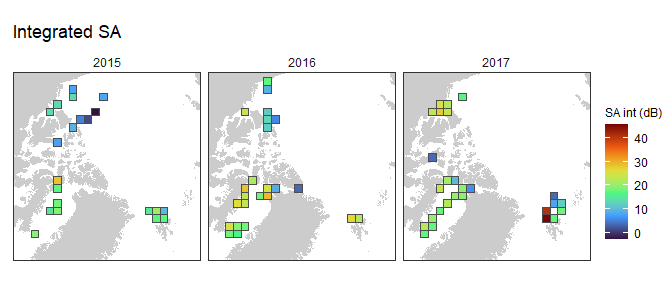
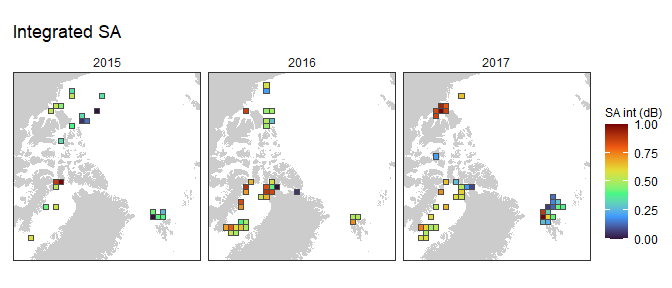
Work on some preliminary data analyses

diff --git a/PanArctic_DSL_statistics.md b/PanArctic_DSL_statistics.md
@@ -1,7 +1,7 @@
 PanArctic DSL - Statistics
 ================
 [Pierre Priou](mailto:pierre.priou@mi.mun.ca)
-2022/04/22 at 14:22
+2022/04/26 at 18:35
 
 # Package loading
 
@@ -10,6 +10,7 @@ PanArctic DSL - Statistics
 library(tidyverse)    # Tidy code
 library(cowplot)      # Plots on a grid
 library(raster)       # Data gridding
+library(sf)           # Spatial data
 library(rgdal)        # Read shapefiles
 library(ggpubr)       # Deal with stats
 library(ggfortify)    # Plotting glm
@@ -45,7 +46,7 @@ WGS84 or the EASE-Grid 2.0 North.
 
 ``` r
 # Map projections
-cell_res <- 150 # Cell resolution in km
+cell_res <- 100 # Cell resolution in km
 arctic_laea <- raster(extent(-2700, 2700, -2700, 2700), crs = "EPSG:6931") # Seaice projection
 projection(arctic_laea) <- gsub("units=m", "units=km", projection(arctic_laea)) # Convert proj unit from m to km
 res(arctic_laea) <- c(cell_res, cell_res) # Define the 100 km cell resolution
@@ -67,20 +68,31 @@ coast_10m_laea <- readOGR("data/bathy/ne_10m_land.shp", verbose = F) %>% # Coast
   fortify() %>% # Convert to a dataframe for ggplot
   rename(xc = long, yc = lat)
 
+# IHO regions
+# IHO_latlon <- readOGR("data/arctic_regions/World_Seas_IHO_v3.shp", verbose = F) %>% # Coastline in latlon
+#   spTransform(CRSobj = crs(arctic_latlon)) %>% # Make sure that the shapefile is in the right projection
+#   crop(extent(-180, 180, 0, 90)) %>% # Crop shapefile
+#   fortify() %>% # Convert to dataframe for ggplot
+#   rename(xc = long, yc = lat)
+# IHO_laea <- readOGR("data/arctic_regions/World_Seas_IHO_v3.shp", verbose = F) %>% # Coastline in latlon
+#   spTransform(CRSobj = crs(arctic_latlon)) %>% # Make sure that the shapefile is in the right projection
+#   crop(extent(-180, 180, 0, 90)) %>% # Crop shapefile
+#   spTransform(CRSobj = crs(arctic_laea)) %>% # Project shapefile in laea
+#   fortify() %>% # Convert to dataframe for ggplot
+#   rename(xc = long, yc = lat)
+
 # Gridded acoustic, CTD, and sea ice data
 load("data/acoustics/SA_grids.RData") # Acoustic data
 # load("data/CTD/CTD_grids.RData") # CTD data
 load("data/remote_sensing/physics_grids.RData") # Modelled physics data 
 load("data/remote_sensing/seaice_grids.RData") # Remote sensing sea ice data
-
-rm(list = ls(pattern = "latlon")) # Remove EPSG:4326 files
 ```
 
-# EPSG:6931 - EASE-Grid 2.0 North
+# Data preparation
 
-## Data preparation
-
-First I combine data using the EASE-Grid 2.0 North (EPSG:6931).
+I combine data using the EASE-Grid 2.0 North (EPSG:6931) and normalize
+the covariates. Calculation of the anomalies are also computed based on
+the IHO areas.
 
 ``` r
 SA_laea <- SA_grid_laea %>%  # Tidy anomaly dataset for joining
@@ -89,9 +101,15 @@ phy_laea <- phy_grid_laea %>% # Tidy remote sensing dataset for joining
   dplyr::select(-lat, -lon)
 
 stat_laea <- left_join(SA_laea, phy_laea, by = c("year", "area", "xc", "yc", "cell_res")) %>% # Join acoustic and seaice
-  filter(depth == 380) %>% # Select data at 222 m depth
-  mutate(SA_int = 10 * log10(NASC_int))
+  # filter(depth == 380) %>% # Select data at 380 m depth
+  mutate(SA_int = 10 * log10(NASC_int)) %>%
+  group_by(area) %>%
+  mutate(SA_int_n = (SA_int - min(SA_int)) / (max(SA_int - min(SA_int))),
+         velocity_n = (velocity - min(velocity)) / (max(velocity - min(velocity)))) %>%
+  ungroup()
 ```
+
+# Data exploration
 
 Maps of all variables.
 
@@ -99,7 +117,7 @@ Maps of all variables.
 stat_laea %>% # Backscatter
   ggplot(aes(x = xc,  y = yc)) +
   geom_polygon(data = coast_10m_laea, aes(x = xc, y = yc, group = group), fill = "grey80") +
-  geom_tile(aes(fill = SA_int), color = "grey30") +
+  geom_tile(aes(fill = SA_int_n), color = "grey30") +
   scale_fill_viridis_c("SA int (dB)", option = "turbo", na.value = "red") +
   facet_wrap(~ year, ncol = 3) +
   ggtitle("Integrated SA") +
@@ -130,7 +148,7 @@ stat_laea %>% # Temperature
   geom_tile(aes(fill = thetao), color = "grey30") +
   scale_fill_cmocean("Temp (dC)", name = "thermal", na.value = "red") +
   facet_wrap(~ year, ncol = 3) +
-  ggtitle("Temperature at 222 m depth") +
+  ggtitle("Temperature at 380 m depth") +
   coord_fixed(xlim = c(-2600, 1100), ylim = c(-1800, 1900), expand = F) + 
   theme(axis.text = element_blank(), axis.ticks = element_blank(), axis.title = element_blank())
 ```
@@ -144,7 +162,7 @@ stat_laea %>% # Salinity
   geom_tile(aes(fill = so), color = "grey30") +
   scale_fill_cmocean("Sal (psu)", name = "haline", na.value = "red") +
   facet_wrap(~ year, ncol = 3) +
-  ggtitle("Salinity at 222 m depth") +
+  ggtitle("Salinity at 380 m depth") +
   coord_fixed(xlim = c(-2600, 1100), ylim = c(-1800, 1900), expand = F) + 
   theme(axis.text = element_blank(), axis.ticks = element_blank(), axis.title = element_blank())
 ```
@@ -164,6 +182,20 @@ stat_laea %>% # Ice concentration
 ```
 
 ![](PanArctic_DSL_statistics_files/figure-gfm/map-velocity-1.png)<!-- -->
+
+``` r
+stat_laea %>% # Ice concentration
+  ggplot(aes(x = xc,  y = yc)) +
+  geom_polygon(data = coast_10m_laea, aes(x = xc, y = yc, group = group), fill = "grey80") +
+  geom_tile(aes(fill = velocity_n), color = "grey30") +
+  scale_fill_cmocean("Normalized velo", name = "speed", na.value = "red") +
+  facet_wrap(~ year, ncol = 3) +
+  ggtitle("Current velocity at 380 m depth") +
+  coord_fixed(xlim = c(-2600, 1100), ylim = c(-1800, 1900), expand = F) + 
+  theme(axis.text = element_blank(), axis.ticks = element_blank(), axis.title = element_blank())
+```
+
+![](PanArctic_DSL_statistics_files/figure-gfm/map-velocity-normalized-1.png)<!-- -->
 
 ``` r
 stat_laea %>% # Mixed layer depth
@@ -207,23 +239,141 @@ stat_laea %>% # Ice concentration
 
 ![](PanArctic_DSL_statistics_files/figure-gfm/map-siconc-1.png)<!-- -->
 
-## Data exploration
-
-First I check the general correlation for the entire data set and then I
-check whether there are correlations within each cell.
+Check the general correlation for the entire data set.
 
 ``` r
 corr <- stat_laea %>% # Compute Spearman correlation matrix
-  dplyr::select(NASC_int, SA_int, NASC_anomaly, thetao, so, velocity, mlotst, siconc, sithick) %>%
+  dplyr::select(SA_int_n, NASC_anomaly, thetao, temp_anomaly, velocity, velocity_anomaly, siconc) %>%
   cor(., method = "spearman") %>%
   round(., 2)
 corr_pvalues <- stat_laea %>% # Compute Spearman correlation matrix p-values
-  dplyr::select(NASC_int, SA_int, NASC_anomaly, thetao, so, velocity, mlotst, siconc, sithick) %>%
+  dplyr::select(SA_int_n, NASC_anomaly, thetao, temp_anomaly, velocity, velocity_anomaly, siconc) %>%
   cor_pmat(., method = "spearman") 
 ```
+
+    ## Warning in cor.test.default(mat[, i], mat[, j], ...): Cannot compute exact p-
+    ## value with ties
+
+    ## Warning in cor.test.default(mat[, i], mat[, j], ...): Cannot compute exact p-
+    ## value with ties
+
+    ## Warning in cor.test.default(mat[, i], mat[, j], ...): Cannot compute exact p-
+    ## value with ties
+
+    ## Warning in cor.test.default(mat[, i], mat[, j], ...): Cannot compute exact p-
+    ## value with ties
+
+    ## Warning in cor.test.default(mat[, i], mat[, j], ...): Cannot compute exact p-
+    ## value with ties
+
+    ## Warning in cor.test.default(mat[, i], mat[, j], ...): Cannot compute exact p-
+    ## value with ties
+
+    ## Warning in cor.test.default(mat[, i], mat[, j], ...): Cannot compute exact p-
+    ## value with ties
+
+    ## Warning in cor.test.default(mat[, i], mat[, j], ...): Cannot compute exact p-
+    ## value with ties
+
+    ## Warning in cor.test.default(mat[, i], mat[, j], ...): Cannot compute exact p-
+    ## value with ties
+
+    ## Warning in cor.test.default(mat[, i], mat[, j], ...): Cannot compute exact p-
+    ## value with ties
+
+    ## Warning in cor.test.default(mat[, i], mat[, j], ...): Cannot compute exact p-
+    ## value with ties
+
+    ## Warning in cor.test.default(mat[, i], mat[, j], ...): Cannot compute exact p-
+    ## value with ties
+
+    ## Warning in cor.test.default(mat[, i], mat[, j], ...): Cannot compute exact p-
+    ## value with ties
+
+    ## Warning in cor.test.default(mat[, i], mat[, j], ...): Cannot compute exact p-
+    ## value with ties
+
+    ## Warning in cor.test.default(mat[, i], mat[, j], ...): Cannot compute exact p-
+    ## value with ties
 
 ``` r
 ggcorrplot(corr, type = "lower", p.mat = corr_pvalues)
 ```
 
 ![](PanArctic_DSL_statistics_files/figure-gfm/corr-plot-1.png)<!-- -->
+
+S<sub>A</sub> int is not correlated with temperature and velocity.
+However, these correlation are for the entire dataset and do not take
+into account the spatial aspect of the data.
+
+# Spatial correlation
+
+## Integrated backscatter
+
+``` r
+stat_laea %>%
+  # filter(area == "SV") %>%
+  ggplot(aes(x = velocity, y = SA_int_n)) +
+  # ggplot(aes(x = velocity, y = NASC_anomaly)) +
+  geom_point() + 
+  geom_smooth(method = "lm") +
+  # facet_wrap(~ IHO_area) +
+  facet_wrap(~ area) +
+  theme(legend.position = "top")
+```
+
+    ## `geom_smooth()` using formula 'y ~ x'
+
+![](PanArctic_DSL_statistics_files/figure-gfm/scatterplot-velocity-1.png)<!-- -->
+
+``` r
+stat_laea %>%
+  # filter(area == "SV") %>%
+  ggplot(aes(x = temp_anomaly, y = SA_int_n)) +
+  # ggplot(aes(x = velocity, y = NASC_anomaly)) +
+  geom_point() + 
+  geom_smooth(method = "lm") +
+  # facet_wrap(~ IHO_area) +
+  facet_wrap(~ area, scales = "free_x") +
+  theme(legend.position = "top")
+```
+
+    ## `geom_smooth()` using formula 'y ~ x'
+
+![](PanArctic_DSL_statistics_files/figure-gfm/scatterplot-temp-anomaly-1.png)<!-- -->
+
+``` r
+stat_laea %>%
+  # filter(area == "SV") %>%
+  ggplot(aes(x = siconc, y = SA_int_n)) +
+  # ggplot(aes(x = velocity, y = NASC_anomaly)) +
+  geom_point() + 
+  geom_smooth(method = "lm") +
+  # facet_wrap(~ IHO_area) +
+  facet_wrap(~ area, scales = "free_x") +
+  theme(legend.position = "top")
+```
+
+    ## `geom_smooth()` using formula 'y ~ x'
+
+![](PanArctic_DSL_statistics_files/figure-gfm/scatterplot-siconc-1.png)<!-- -->
+
+I will calculate the correlation between integrated backscatter and
+current velocity for each cell of the raster. Before calculating the
+correlation I need to check the distribution of the data.
+
+``` r
+plot_grid(stat_laea %>%
+            ggdensity(x = "SA_int_n", fill = "lightgray") +
+            stat_overlay_normal_density(color = "red", linetype = "dashed") +
+            scale_x_continuous(expression("S"[A]*" int (dB)")),
+          stat_laea %>%
+            ggdensity(x = "velocity_n", fill = "lightgray") +
+            stat_overlay_normal_density(color = "red", linetype = "dashed") +
+            scale_x_continuous(expression("Current velocity (m s"^-1*")")))
+```
+
+![](PanArctic_DSL_statistics_files/figure-gfm/distribution-NASC-anomaly-velocity-1.png)<!-- -->
+
+The grey black curve is the density of the data (S<sub>A</sub> int and )
+and the red curve is the normal distribution.
